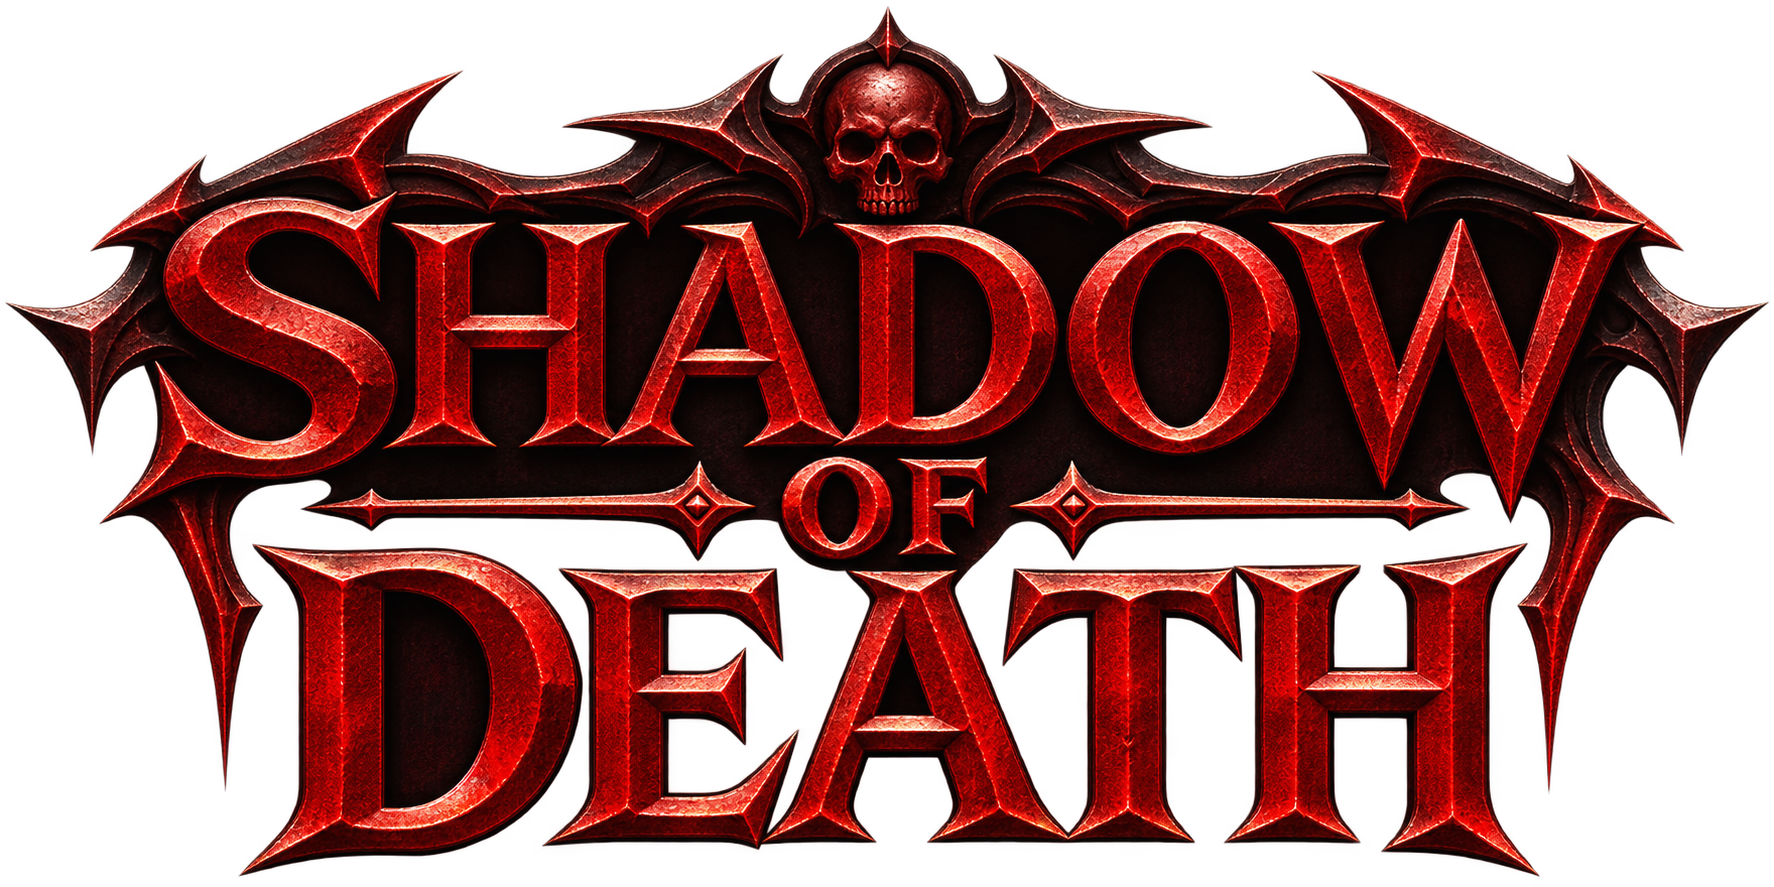
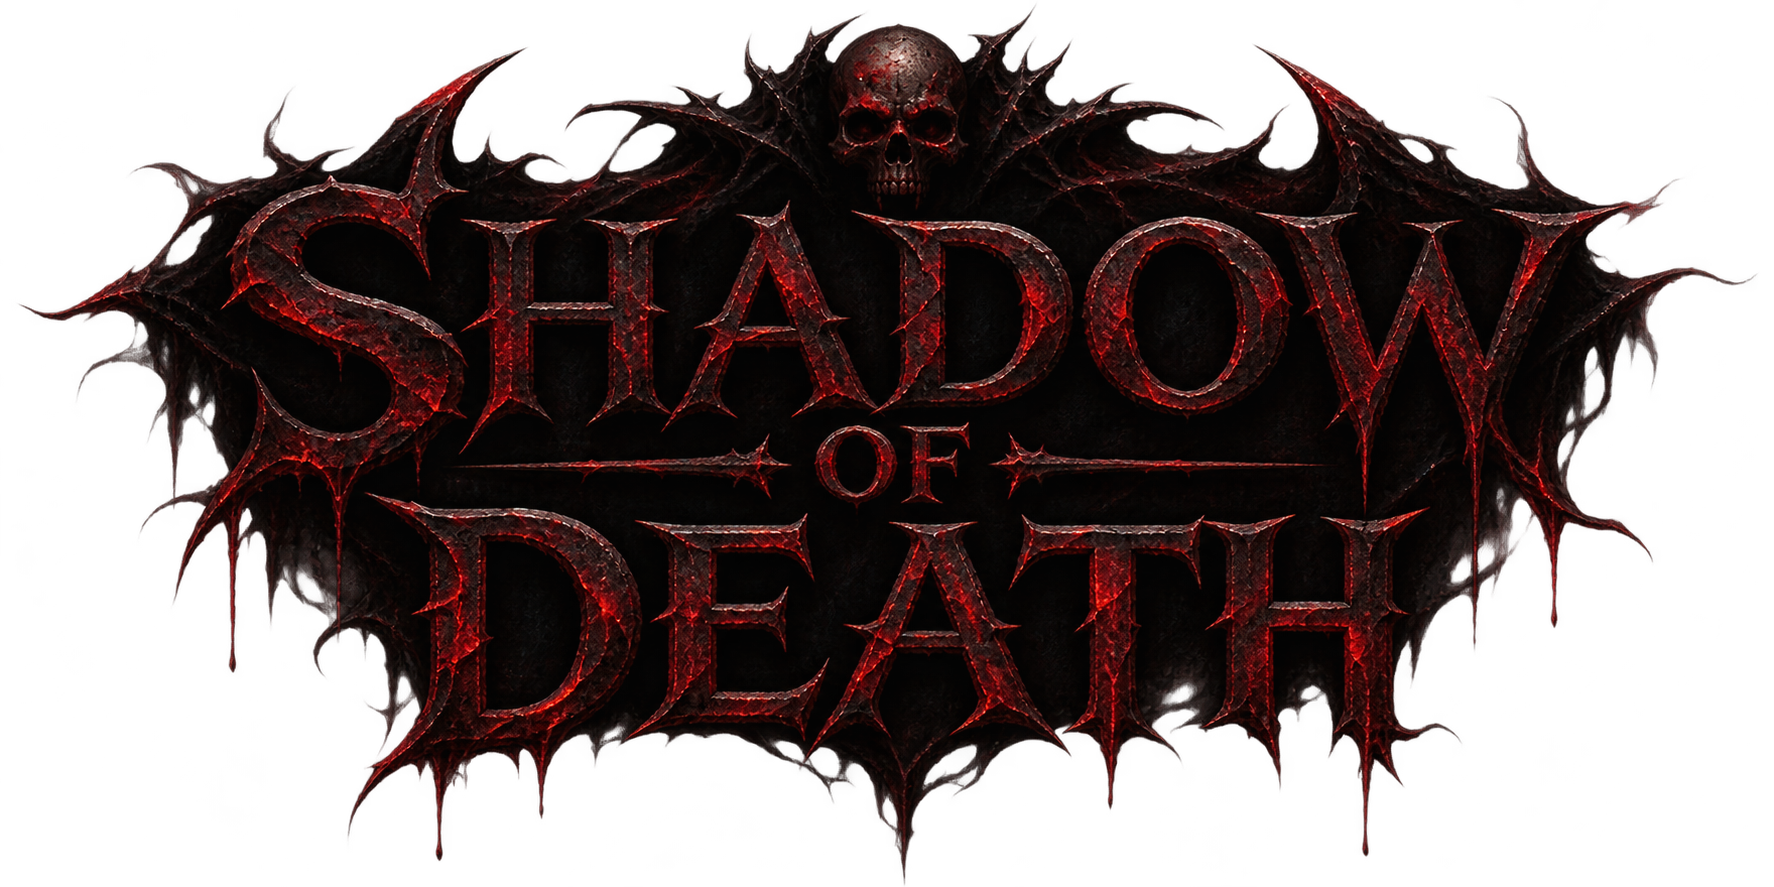
Bring the client wordmark back into shadow

diff --git a/css/cinematic.css b/css/cinematic.css
@@ -154,7 +154,7 @@ a:focus-visible, button:focus-visible, summary:focus-visible {
   width: 100%;
   height: 74px;
   object-fit: contain;
-  filter: drop-shadow(0 0 9px #8d110c);
+  filter: drop-shadow(0 2px 4px #080506);
 }
 
 .topbar #nav {
